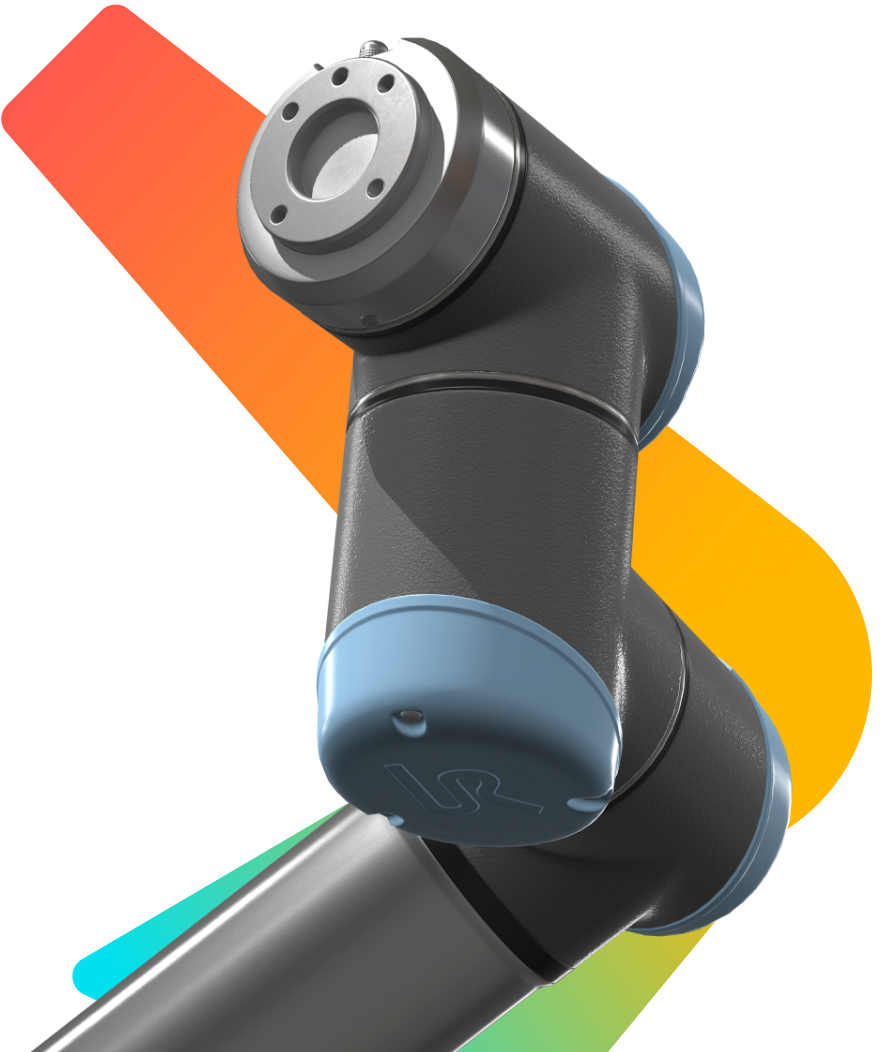
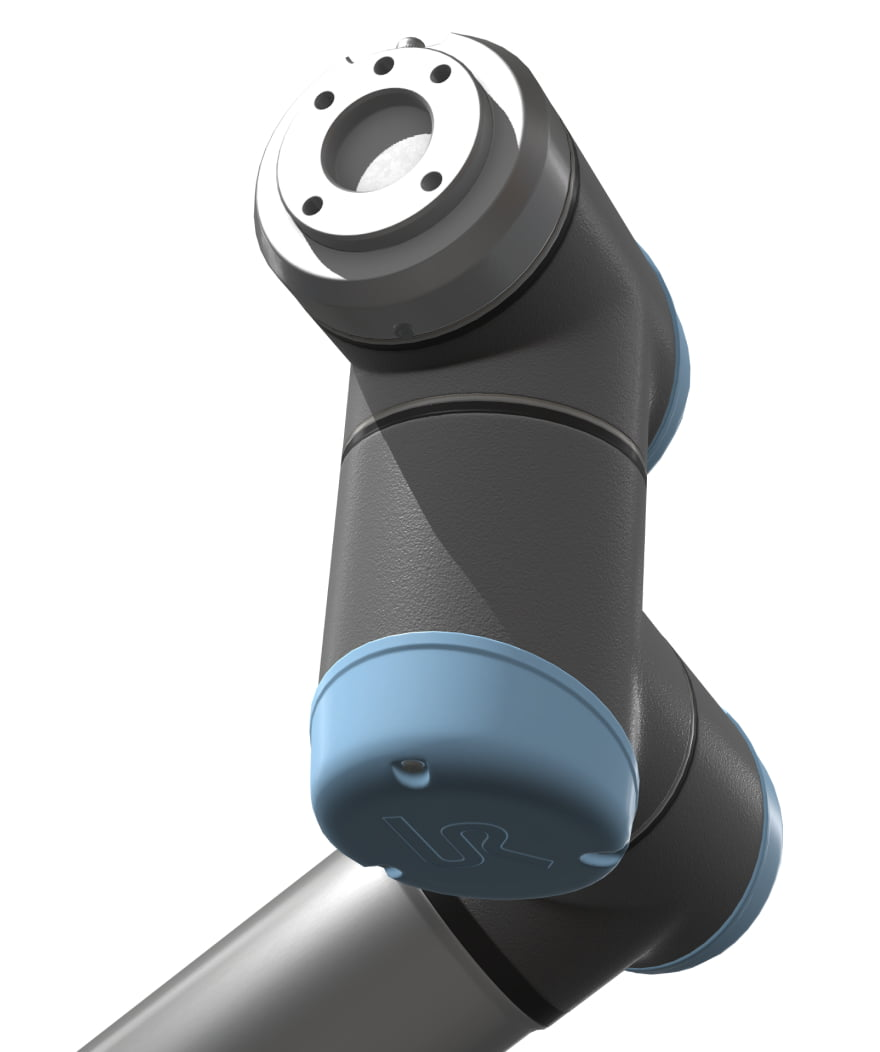
New dev deploy from 24/11/2020

diff --git a/4.css b/4.css
@@ -492,7 +492,7 @@
   }
 }
 .page-container--section.company .about-company--container .robot-anim {
-  margin-top: 60px;
+  margin-top: 40px;
 }
 @media only screen and (min-device-width: 320px) and (max-device-width: 568px) and (-webkit-min-device-pixel-ratio: 2) {
   .page-container--section.company .about-company--container .robot-anim {
@@ -520,7 +520,7 @@
   width: 440px;
   height: 526px;
   position: relative;
-  background-image: url(/assets/images/robot-steel-2.jpg);
+  background-image: url(/assets/images/robot-steel.jpg);
   background-repeat: no-repeat;
   background-size: contain;
   z-index: 3;
@@ -615,7 +615,7 @@
 @media only screen and (min-device-width: 320px) and (max-device-width: 568px) and (-webkit-min-device-pixel-ratio: 2) {
   .page-container--section.contacts {
     padding: 0;
-    padding-top: 80px;
+    padding-top: 30px;
   }
   .page-container--section.contacts .subheader {
     padding: 0 20px;

diff --git a/6.css b/6.css
@@ -251,6 +251,12 @@
   box-shadow: 0 0 0 20px #F5F5F5;
   background: #F5F5F5;
 }
+@media only screen and (min-device-width: 320px) and (max-device-width: 568px) and (-webkit-min-device-pixel-ratio: 2) {
+  .blog-container .latest-post:hover {
+    box-shadow: none;
+    background-color: transparent;
+  }
+}
 .blog-container .latest-post .cover {
   width: auto;
   height: 360px;
@@ -303,6 +309,12 @@
 .blog-container .old-posts .old-post:hover {
   box-shadow: 0 0 0 20px #F5F5F5;
   background: #F5F5F5;
+}
+@media only screen and (min-device-width: 320px) and (max-device-width: 568px) and (-webkit-min-device-pixel-ratio: 2) {
+  .blog-container .old-posts .old-post:hover {
+    box-shadow: none;
+    background-color: transparent;
+  }
 }
 .blog-container .old-posts .old-post .cover {
   width: auto;
